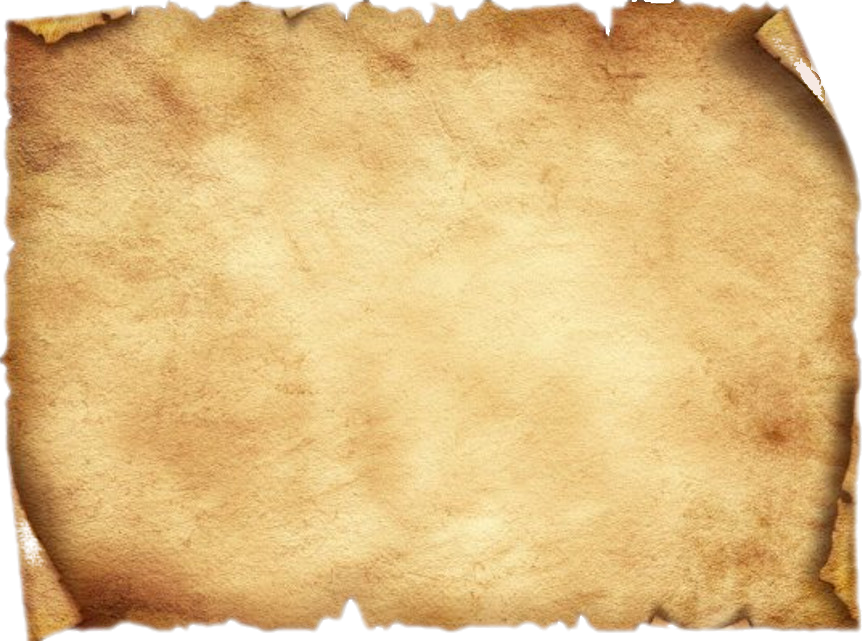
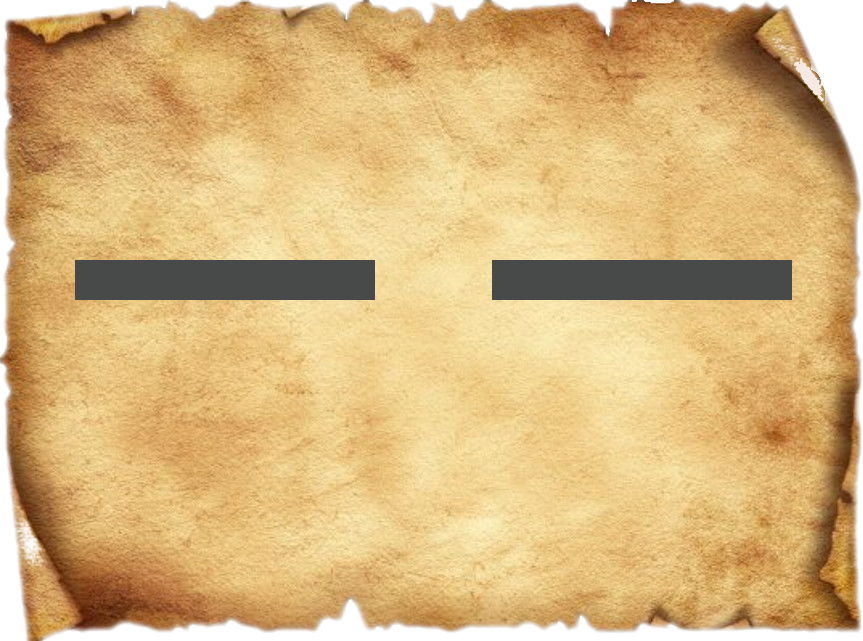
Add current progress volume gestion drag button

Changed region(s): [[0.0603, 0.4056, 0.4519, 0.468], [0.5724, 0.4056, 0.934, 0.468]]

diff --git a/src/menu/settings_menu/drag_button_event.c b/src/menu/settings_menu/drag_button_event.c
@@ -1,0 +1,136 @@
+/*
+** EPITECH PROJECT, 2022
+** rpg
+** File description:
+** drag button event
+*/
+
+#include <stdlib.h>
+#include "my_rpg.h"
+#include "audio.h"
+#include "main_menu.h"
+
+void drag_button_on_hover(object_t *obj, scene_t *scene, window_t *win,
+    set_event_t *evt)
+{
+    if (obj == NULL || scene == NULL || win == NULL || evt == NULL) {
+        return;
+    }
+    sfSprite_setScale(obj->drawable.sprite, (sfVector2f) {1.3, 1.3});
+}
+
+void drag_button_off_hover(object_t *obj, scene_t *scene, window_t *win,
+    set_event_t *evt)
+{
+    if (obj == NULL || scene == NULL || win == NULL || evt == NULL) {
+        return;
+    }
+    sfSprite_setScale(obj->drawable.sprite, (sfVector2f) {1.0, 1.0});
+}
+
+void drag_button_on(float delimitation[2], object_t *obj, window_t *win)
+{
+    sfVector2i mouse_pos_i = {0};
+    sfVector2f mouse_pos = {0};
+
+    if (obj == NULL || win == NULL || delimitation[0] < 0 ||
+        delimitation[1] < 0) {
+        return;
+    }
+    sfSprite_setScale(obj->drawable.sprite, (sfVector2f) {0.7, 0.7});
+    mouse_pos_i = sfMouse_getPosition(win->win);
+    mouse_pos = (sfVector2f) {mouse_pos_i.x, mouse_pos_i.y};
+    if (mouse_pos.x < delimitation[0] || mouse_pos.x > delimitation[1]) {
+        return;
+    }
+    obj->bigdata.sprite_bigdata.pos = mouse_pos;
+}
+
+float get_pos(float delimitation[2], window_t *win, bool music)
+{
+    any_t *save = NULL;
+    any_t *percentage = NULL;
+    float width = delimitation[1] - delimitation[0];
+    float multiple = 0;
+
+    if (win == NULL) {
+        return;
+    }
+    save = dico_t_get_any(win->components, SAVE);
+    if (music == true) {
+        percentage = get_from_any(save, "d", MUSIC_VOLUME);
+    } else {
+        percentage = get_from_any(save, "d", SOUND_VOLUME);
+    }
+    if (percentage == NULL) {
+        return -1;
+    }
+    multiple = percentage->value.f / 100;
+    printf("multiple%f\n", multiple);
+    return width * multiple;
+}
+
+void set_delimitation(bool *fst_time, float *delimitation[2],
+    window_t *win, bool music)
+{
+    list_ptr_t *list = dico_t_get_value(win->components, SETTINGS_MENU);
+    object_t *obj = NULL;
+    sfFloatRect rect = {0};
+
+    if (list == NULL) {
+        return;
+    }
+    if (music == true) {
+        obj = list->end->back->back->back->var;
+    } else {
+        obj = list->end->back->back->var;
+    }
+    rect = sfSprite_getGlobalBounds(obj->drawable.sprite);
+    *delimitation[0] = rect.left;
+    *delimitation[1] = rect.left + rect.width;
+    *fst_time = true;
+}
+
+void music_drag_button_on_click(object_t *obj, scene_t *scene, window_t *win,
+    set_event_t *evt)
+{
+    static bool fst_time = false;
+    static float delimitation[2] = {-1, -1};
+
+    if (fst_time == false) {
+        set_delimitation(&fst_time, &delimitation, win, true);
+        obj->bigdata.sprite_bigdata.pos.x = get_pos(delimitation, win, true);
+    }
+    drag_button_on(delimitation, obj, win);
+}
+
+void sound_drag_button_on_click(object_t *obj, scene_t *scene, window_t *win,
+    set_event_t *evt)
+{
+    static bool fst_time = false;
+    static float delimitation[2] = {-1, -1};
+
+    if (fst_time == false) {
+        set_delimitation(&fst_time, &delimitation, win, false);
+        obj->bigdata.sprite_bigdata.pos.x = get_pos(delimitation, win, false);
+    }
+    drag_button_on(delimitation, obj, win);
+}
+
+void sound_drag_button_off(object_t *obj, scene_t *scene, window_t *win,
+    set_event_t *evt)
+{
+    if (obj == NULL || scene == NULL || win == NULL || evt == NULL) {
+        return;
+    }
+    sfSprite_setScale(obj->drawable.sprite, (sfVector2f) {1.0, 1.0});
+}
+
+void music_drag_button_off(object_t *obj, scene_t *scene, window_t *win,
+    set_event_t *evt)
+{
+    if (obj == NULL || scene == NULL || win == NULL || evt == NULL) {
+        return;
+    }
+    sfSprite_setScale(obj->drawable.sprite, (sfVector2f) {1.0, 1.0});
+}

diff --git a/src/menu/settings_menu/bar_update.c b/src/menu/settings_menu/bar_update.c
@@ -1,0 +1,59 @@
+/*
+** EPITECH PROJECT, 2022
+** rpg
+** File description:
+** drag event
+*/
+
+#include "my_bgs.h"
+#include "audio.h"
+#include "main_menu.h"
+
+void bar_update(object_t *button, object_t *fill_bar)
+{
+    sfFloatRect fill_bar_rect = {0};
+    float bar_end_pos_x = -1;
+    float dif = -1;
+
+    if (button == NULL || fill_bar == NULL) {
+        return;
+    }
+    fill_bar_rect = sfSprite_getGlobalBounds(fill_bar->drawable.sprite);
+    bar_end_pos_x = fill_bar_rect.left + fill_bar_rect.width;
+    dif = button->bigdata.sprite_bigdata.pos.x - bar_end_pos_x;
+    if (dif == 0) {
+        return;
+    }
+    fill_bar->bigdata.sprite_bigdata.rect.width += (int) dif;
+    fill_bar->bigdata.sprite_bigdata.pos.x += (int) dif / 2;
+}
+
+void music_bar_update(object_t *obj, scene_t *scene, window_t *win,
+    set_event_t *evt)
+{
+    list_ptr_t *setting_list = NULL;
+
+    if (obj == NULL || scene == NULL || win == NULL || evt == NULL) {
+        return;
+    }
+    setting_list = dico_t_get_value(win->components, SETTINGS_MENU);
+    if (setting_list == NULL) {
+        return;
+    }
+    bar_update(setting_list->end->back->var, obj);
+}
+
+void sound_bar_update(object_t *obj, scene_t *scene, window_t *win,
+    set_event_t *evt)
+{
+    list_ptr_t *setting_list = NULL;
+
+    if (obj == NULL || scene == NULL || win == NULL || evt == NULL) {
+        return;
+    }
+    setting_list = dico_t_get_value(win->components, SETTINGS_MENU);
+    if (setting_list == NULL) {
+        return;
+    }
+    bar_update(setting_list->end->var, obj);
+}

diff --git a/src/menu/settings_menu/add_new_audio.c b/src/menu/settings_menu/add_new_audio.c
@@ -1,0 +1,59 @@
+/*
+** EPITECH PROJECT, 2022
+** rpg
+** File description:
+** add new audio
+*/
+
+#include "my_rpg.h"
+#include "audio.h"
+
+static list_ptr_t *get_list(enum object_type type, window_t *win, object_t *obj)
+{
+    if (obj == NULL || (type != AUDIO && type != SOUND)) {
+        return NULL;
+    }
+    if (type == AUDIO) {
+        return dico_t_get_value(win->components, AUDIO_LIST);
+    } else if (type == SOUND) {
+        return dico_t_get_value(win->components, SOUND_LIST);
+    }
+    return NULL;
+}
+
+static void remove_object_from_audio_list(void *data)
+{
+    object_t *obj = data;
+    scene_t *scene = NULL;
+    window_t *win = NULL;
+
+    if (data == NULL) {
+        return;
+    }
+    scene = dico_t_get_value(obj->components, SCENE);
+    if (scene == NULL) {
+        return;
+    }
+    win = dico_t_get_value(scene->components, WINDOW);
+    if (win == NULL) {
+        return;
+    }
+    if (obj->type == AUDIO) {
+        check_list(dico_t_get_value(win->components, AUDIO_LIST), obj);
+    } else if (obj->type == SOUND) {
+        check_list(dico_t_get_value(win->components, SOUND_LIST), obj);
+    }
+}
+
+int add_new_audio(object_t *object, enum object_type type, window_t *win)
+{
+    list_ptr_t *list = get_list(type, win, object);
+
+    if (list == NULL) {
+        return RET_ERR_INPUT;
+    }
+    list_add_to_end(list, object);
+    object->components = dico_t_add_data(object->components, "remove_from_list",
+        object, remove_object_from_audio_list);
+    return RET_OK;
+}

diff --git a/src/menu/settings_menu/init_audio_list.c b/src/menu/settings_menu/init_audio_list.c
@@ -1,0 +1,29 @@
+/*
+** EPITECH PROJECT, 2022
+** rpg
+** File description:
+** init audio list
+*/
+
+#include "audio.h"
+#include "my_bgs_components.h"
+#include "my_rpg.h"
+
+int init_audio_list(window_t *win)
+{
+    list_ptr_t *audio_list = NULL;
+    list_ptr_t *sound_list = NULL;
+
+    if (win == NULL) {
+        return RET_ERR_INPUT;
+    }
+    audio_list = list_create();
+    sound_list = list_create();
+    if (audio_list == NULL || sound_list == NULL || window_add_component(win,
+        audio_list, AUDIO_LIST, free_pop_up) != RET_OK ||
+        window_add_component(win, sound_list, SOUND_LIST,
+        free_pop_up) != RET_OK) {
+        return RET_ERR_MALLOC;
+    }
+    return RET_OK;
+}

diff --git a/lib/libbgs/src/core/object_set_type.c b/lib/libbgs/src/core/object_set_type.c
@@ -10,7 +10,7 @@
 
 static int check_display_function(object_t *obj)
 {
-    scene_t *scene = dico_t_get_value(obj->components, "scene");
+    scene_t *scene = dico_t_get_value(obj->components, SCENE);
     list_t *elem = NULL;
     layer_t *layer = NULL;
 
@@ -91,7 +91,7 @@ int object_set_sprite(object_t *object, char const *path, sfIntRect rect,
     if (object == NULL || path == NULL) {
         return BGS_ERR_INPUT;
     }
-    scene = dico_t_get_value(object->components, "scene");
+    scene = dico_t_get_value(object->components, SCENE);
     object->is_visible = true;
     if (sprite_set_texture(object, pos, rect, path) != BGS_OK) {
         list_add_to_end(scene->to_remove, object);

diff --git a/lib/libbgs/src/core/add.c b/lib/libbgs/src/core/add.c
@@ -16,9 +16,10 @@ int window_add_scene(window_t *win, scene_t *scene, const char *scene_name)
     if (win == NULL || scene == NULL || scene_name == NULL) {
         return BGS_ERR_INPUT;
     }
+    scene->components = dico_t_add_data(scene->components, WINDOW, win, NULL);
     win->scenes = dico_t_add_data(win->scenes, scene_name, scene,
             remove_scene);
-    if (win->scenes == NULL) {
+    if (win->scenes == NULL || scene->components == NULL) {
         return (BGS_ERR_MALLOC);
     }
     return BGS_OK;

diff --git a/lib/libbgs/src/core/object_change_scene.c b/lib/libbgs/src/core/object_change_scene.c
@@ -14,8 +14,8 @@ static int change_scene_in_obj_components(object_t *obj, scene_t *dest)
     if (obj == NULL || dest == NULL) {
         return (BGS_ERR_INPUT);
     }
-    obj->components = dico_t_rem(obj->components, "scene");
-    obj->components = dico_t_add_data(obj->components, "scene", dest, NULL);
+    obj->components = dico_t_rem(obj->components, SCENE);
+    obj->components = dico_t_add_data(obj->components, SCENE, dest, NULL);
     if (obj->components == NULL) {
         return BGS_ERR_MALLOC;
     }

diff --git a/lib/libbgs/src/create_button/check_set_color.c b/lib/libbgs/src/create_button/check_set_color.c
@@ -35,8 +35,8 @@ int set_color(object_t *object, dico_t *dico)
     } else {
         color = dico_t_get_any(dico, "text color");
     }
-    if (color == NULL || color->type != ARRAY ||
-        color->value.array->len != 4) {
+    if (color != NULL && color->type == ARRAY &&
+        color->value.array->len == 4) {
         sfSprite_setColor(object->drawable.sprite, get_color(color));
     }
     return BGS_OK;

diff --git a/src/menu/main/init_menu.c b/src/menu/main/init_menu.c
@@ -76,7 +76,8 @@ int init_menu(window_t *win)
         return (RET_ERR_MALLOC);
     }
     obj = create_object(NULL, NULL, scene, 0);
-    if (init_main_menu_buttons(scene, win) == RET_ERR_MALLOC || obj == NULL) {
+    if (init_main_menu_buttons(scene, win) == RET_ERR_MALLOC || obj == NULL ||
+        init_audio_list(win) != RET_OK) {
         return (RET_ERR_MALLOC);
     }
     add_escape_event(obj);

diff --git a/include/audio.h b/include/audio.h
@@ -1,0 +1,16 @@
+/*
+** EPITECH PROJECT, 2022
+** rpg
+** File description:
+** sound header
+*/
+
+#ifndef AUDIO_H_
+    #define AUDIO_H_
+
+static const char AUDIO_LIST[] = "audio list";
+static const char SOUND_LIST[] = "sound list";
+static const char MUSIC_VOLUME[] = "music volume";
+static const char SOUND_VOLUME[] = "sound volume";
+
+#endif /* !SOUND_H_ */

diff --git a/lib/libbgs/src/core/create_object.c b/lib/libbgs/src/core/create_object.c
@@ -45,7 +45,7 @@ object_t *create_object(
         free(object);
         return (NULL);
     }
-    if (object_add_components(object, scene, "scene", NULL) != BGS_OK ||
+    if (object_add_components(object, scene, SCENE, NULL) != BGS_OK ||
             scene_add_object(scene, object, layer) != BGS_OK) {
         free(object);
         return (NULL);

diff --git a/lib/libbgs/src/components/object_set_event.c b/lib/libbgs/src/components/object_set_event.c
@@ -73,7 +73,7 @@ static void check_obj_in_update_list(object_t *obj)
     if (obj == NULL) {
         return;
     }
-    scene = dico_t_get_value(obj->components, "scene");
+    scene = dico_t_get_value(obj->components, SCENE);
     if (scene == NULL) {
         return;
     }
